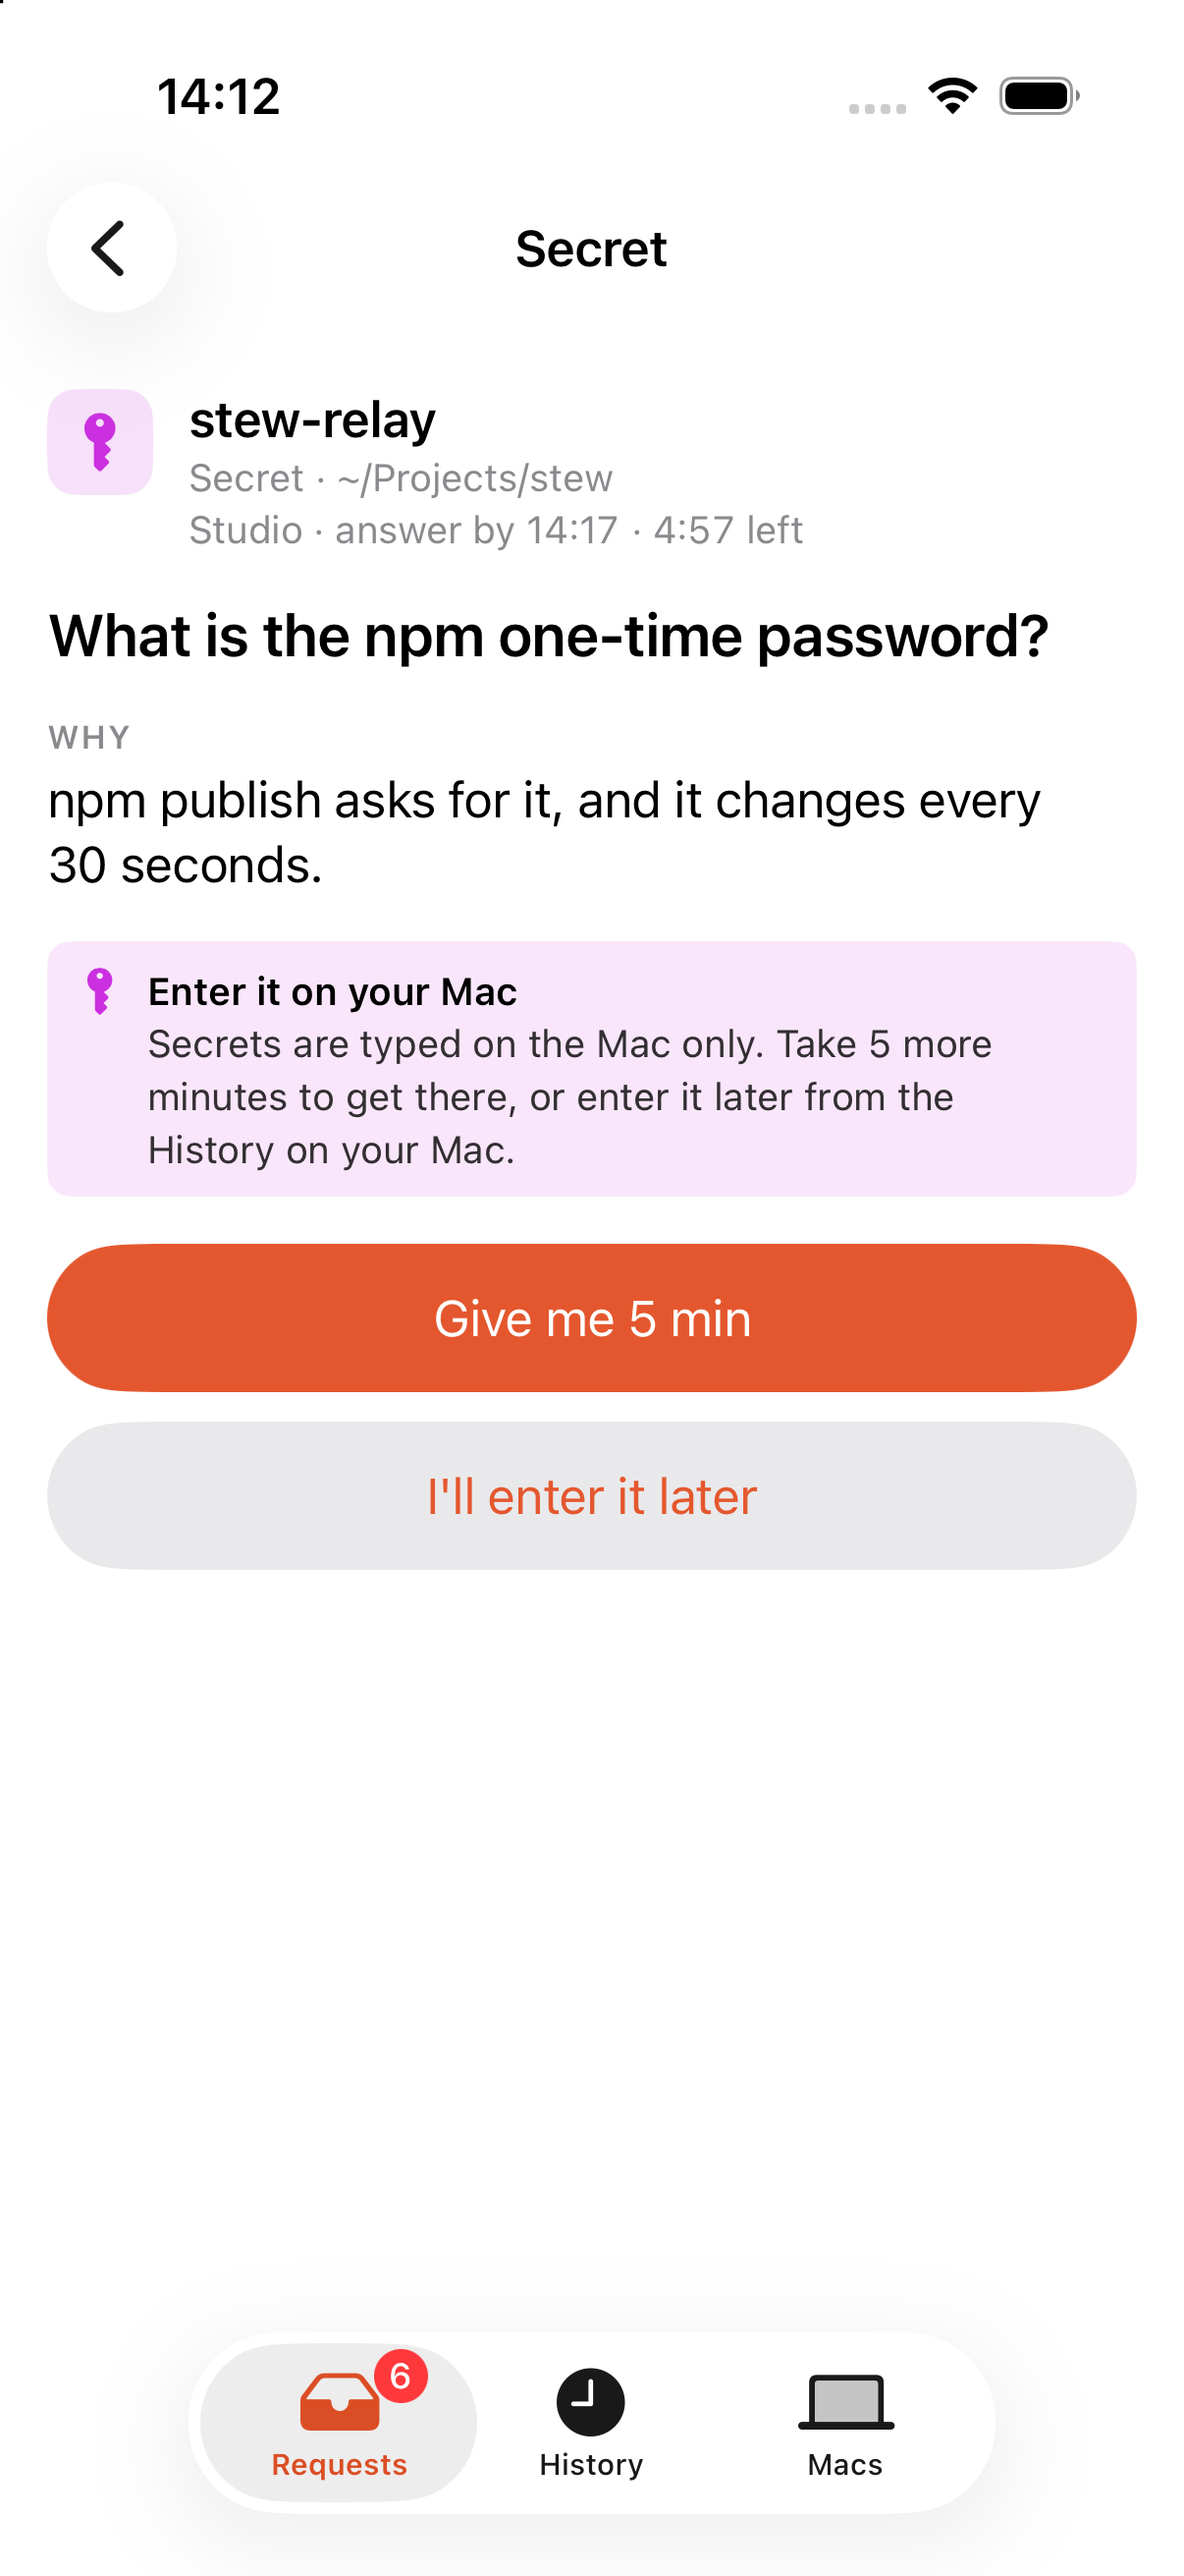
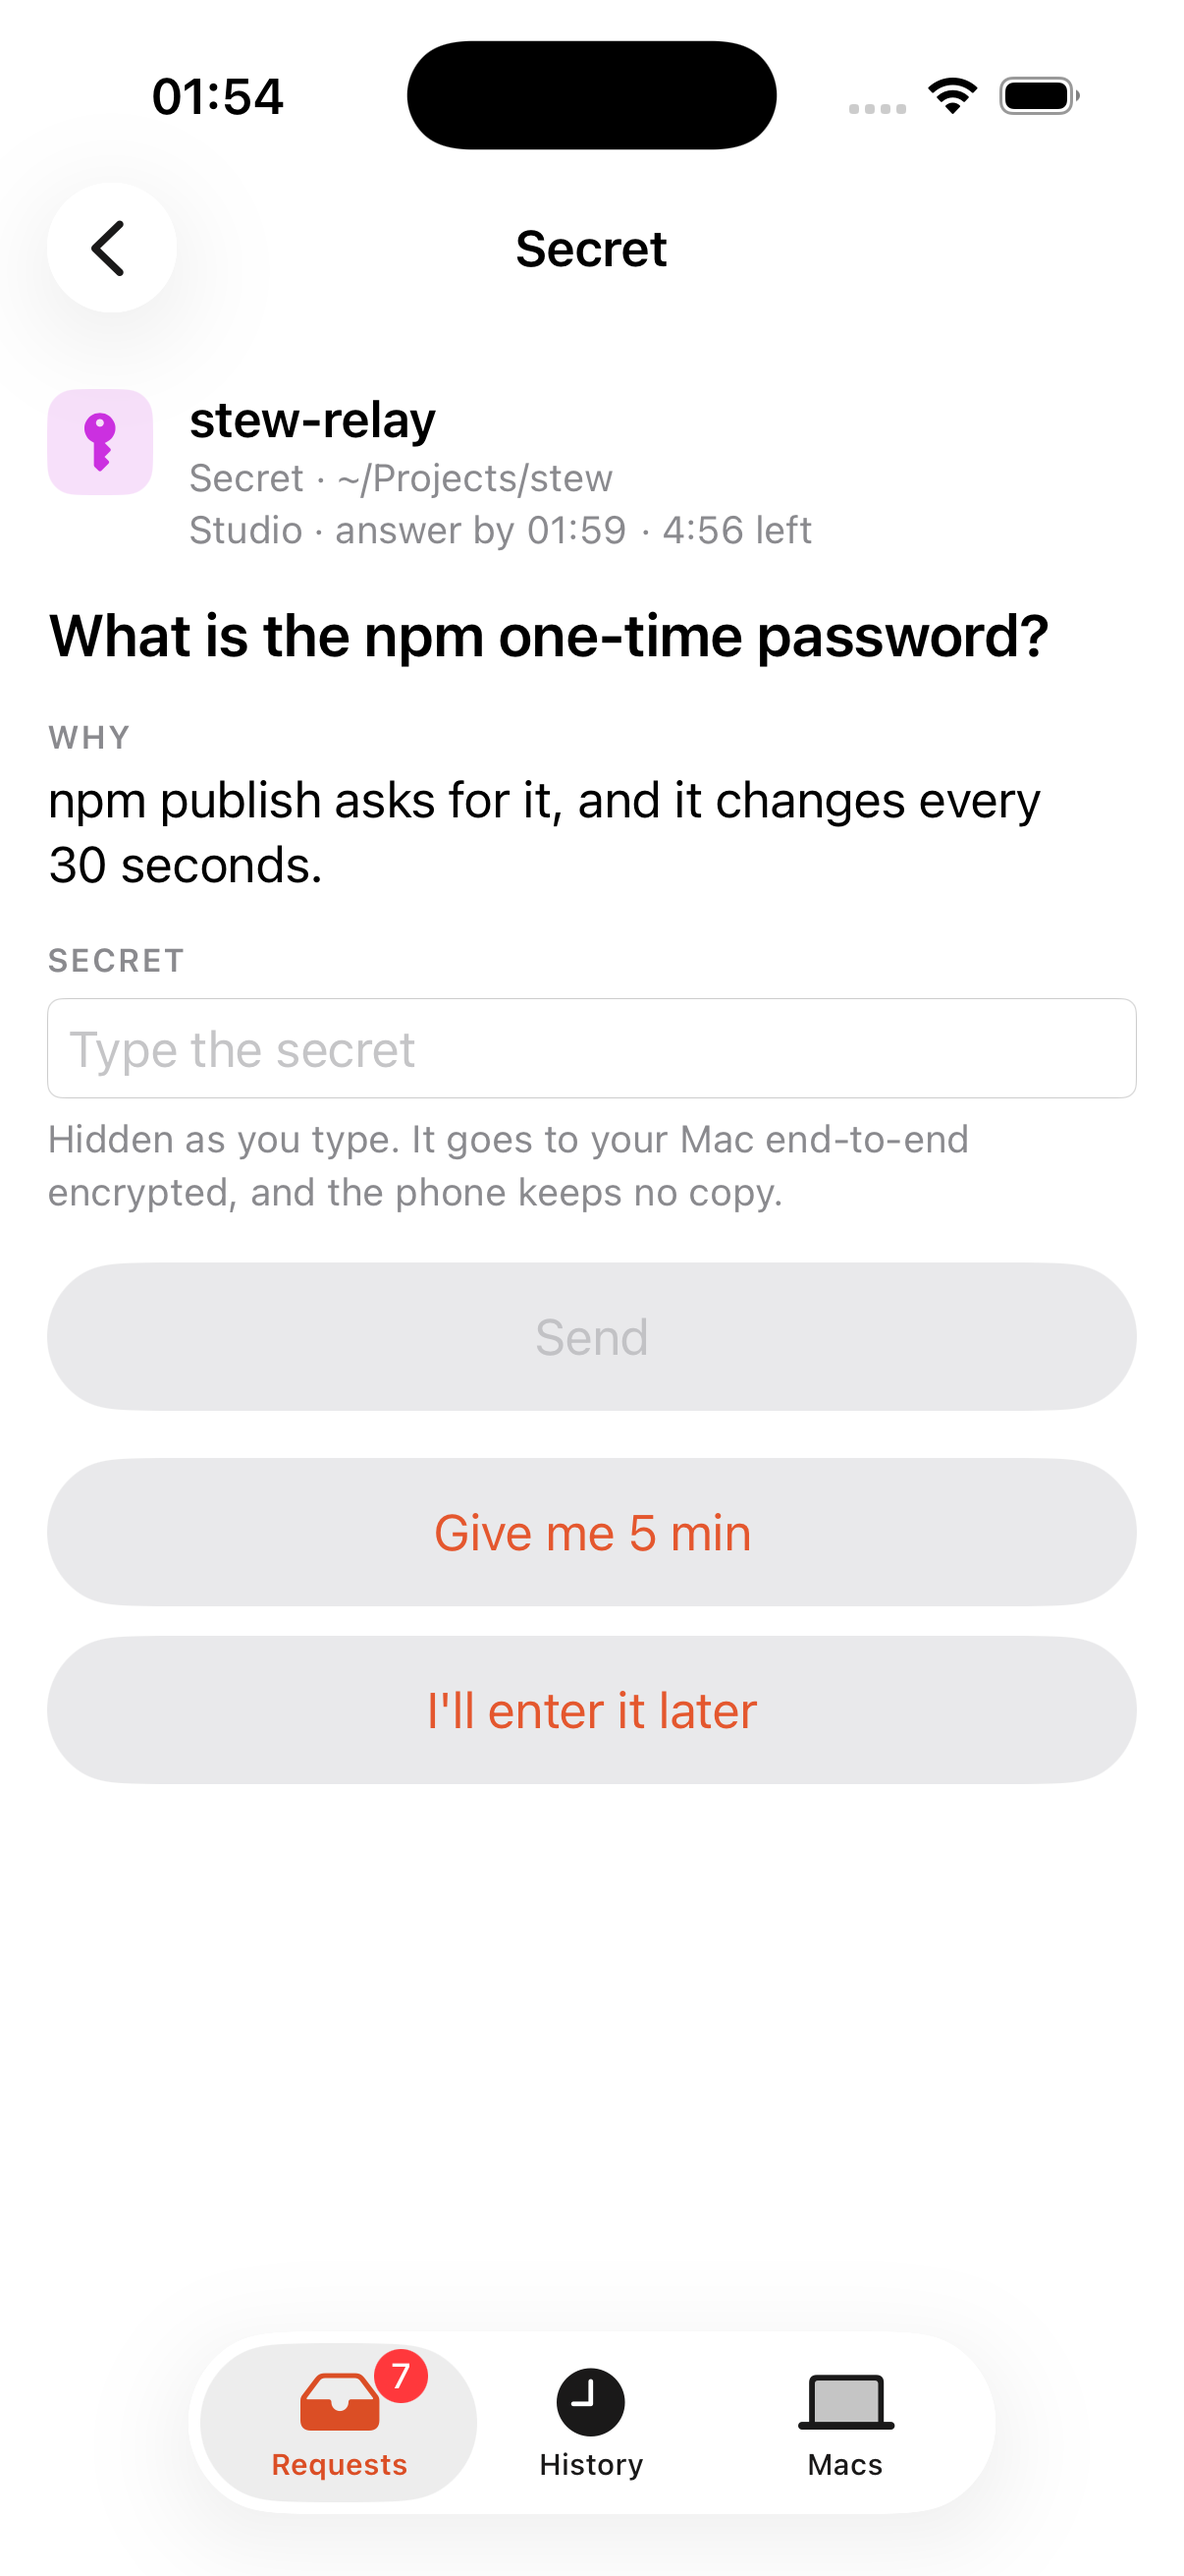
Add samples and a screenshot test for the closed notification, and the secret field image

diff --git a/Tests/TestPhone/main.swift b/Tests/TestPhone/main.swift
@@ -378,7 +378,8 @@ func samplePush(_ values: [String: String]) throws {
             queued: false,
             extendBy: hasNoTimeLimit ? nil : 120,
             hardDeny: sample.2,
-            risk: nil
+            risk: nil,
+            secretInApp: { if case .input(let input) = sample.1, input.secret { return true } else { return nil } }()
         )
         let envelope = try mac.seal(request, kind: .request, requestId: requestId, expiresAt: Date().addingTimeInterval(7200))
         let push = RelayPush(pairingId: code.pairingId, requestId: requestId, kind: .request, envelope: envelope)
@@ -390,7 +391,27 @@ func samplePush(_ values: [String: String]) throws {
         let data = try JSONSerialization.data(withJSONObject: payload, options: [.sortedKeys, .withoutEscapingSlashes])
         try data.write(to: URL(fileURLWithPath: folder + "/push-\(sample.0).json"))
     }
-    print("wrote \(folder)/seed.txt and \(samples.count) payloads")
+    // The closed alert pushes that replace the first sample's notification, as the relay
+    // sends them. Deliver one after push-permission.json.
+    let closings: [(String, LinkResolved)] = [
+        ("closed-mac", LinkResolved(requestId: "sample0", outcome: .answeredOnMac)),
+        ("closed-phone", LinkResolved(requestId: "sample0", outcome: .approved, answeredOn: "Sam's iPhone", answeredHere: false)),
+        ("closed-timeout", LinkResolved(requestId: "sample0", outcome: .timedOut)),
+    ]
+    for (name, resolved) in closings {
+        let envelope = try mac.seal(resolved, kind: .resolved, requestId: "sample0", expiresAt: Date().addingTimeInterval(7200))
+        let push = RelayPush(pairingId: code.pairingId, requestId: "sample0", kind: .resolved, envelope: envelope)
+        let payload: [String: Any] = [
+            "aps": [
+                "alert": ["title": "stew", "body": "This request is closed."], "mutable-content": 1,
+                "interruption-level": "passive", "category": LinkPresentation.closedCategory, "thread-id": code.pairingId,
+            ],
+            "stew": try JSONSerialization.jsonObject(with: try LinkJSON.encode(push)),
+        ]
+        let data = try JSONSerialization.data(withJSONObject: payload, options: [.sortedKeys, .withoutEscapingSlashes])
+        try data.write(to: URL(fileURLWithPath: folder + "/push-\(name).json"))
+    }
+    print("wrote \(folder)/seed.txt and \(samples.count + closings.count) payloads")
 }
 
 func fixture(_ values: [String: String]) throws {

diff --git a/docs/PHONE.md b/docs/PHONE.md
@@ -106,12 +106,12 @@ The unit tests seal real envelopes with a fake Mac's keys and answer through a s
 On the simulator, debug builds take three launch arguments. None of them exist in release builds.
 
 - `-StewSeed <base64>` installs the phone state that `stew-test-phone sample-push --out DIR` writes to `DIR/seed.txt`, without a relay.
-- `-StewDeliver <base64>` runs a push payload (`base64 -i DIR/push-permission.json`) through the notification extension's code in the app and shows the result 15 seconds later. `xcrun simctl push` delivers payloads, but the simulator does not start notification service extensions for them, so this is how to see a decrypted notification there.
+- `-StewDeliver <base64>` runs a push payload (`base64 -i DIR/push-permission.json`) through the notification extension's code in the app and shows the result 15 seconds later. `xcrun simctl push` delivers payloads, but the simulator does not start notification service extensions for them, so this is how to see a decrypted notification there. Several payloads separated by commas go through in order under their request id, like an APNs collapse id, so `push-permission.json` followed by one of the `push-closed-*.json` files leaves only the closed notification.
 - `-StewDemo [requests|request|question|questions|questions-offline|late|needs|input|secret|history|macs]` shows sample requests and history on that screen, for screenshots. `questions` is a set of two questions, `questions-offline` the same set with the Mac offline, and `late` that set after its time ran out. A demo never contacts a relay: a stand-in answers for the Mac.
 
 ### Screenshots
 
-`StewUITests/ScreenShots/testAnswerFeedback` taps through the question demos and captures Submit with a question left open, sending, a failed send, and a late answer; run it once more with the simulator dark and `TEST_RUNNER_STEW_APPEARANCE=dark` for the dark versions. `StewUITests/ScreenShots/testNotification` launches the app with `TEST_RUNNER_STEW_SEED` and `TEST_RUNNER_STEW_PUSH`, goes to the Home Screen, and captures the banner and the expanded notification. Export them with `xcrun xcresulttool export attachments`. The app screens come from `-StewDemo` and `xcrun simctl io <device> screenshot`. A headless simulator applies `xcrun simctl ui <device> appearance dark` only after a reboot.
+`StewUITests/ScreenShots/testAnswerFeedback` taps through the question demos and captures Submit with a question left open, sending, a failed send, and a late answer; run it once more with the simulator dark and `TEST_RUNNER_STEW_APPEARANCE=dark` for the dark versions. `StewUITests/ScreenShots/testNotification` launches the app with `TEST_RUNNER_STEW_SEED` and `TEST_RUNNER_STEW_PUSH`, goes to the Home Screen, and captures the banner and the expanded notification. `testClosedNotification` does the same for a request and its closed push (two payloads in `TEST_RUNNER_STEW_PUSH`), and captures the passive closed notification in Notification Center; uninstall the app first, because the request is closed for good once the phone saw its outcome. Export them with `xcrun xcresulttool export attachments`. The app screens come from `-StewDemo` and `xcrun simctl io <device> screenshot`. A headless simulator applies `xcrun simctl ui <device> appearance dark` only after a reboot.
 
 ## Security
 
